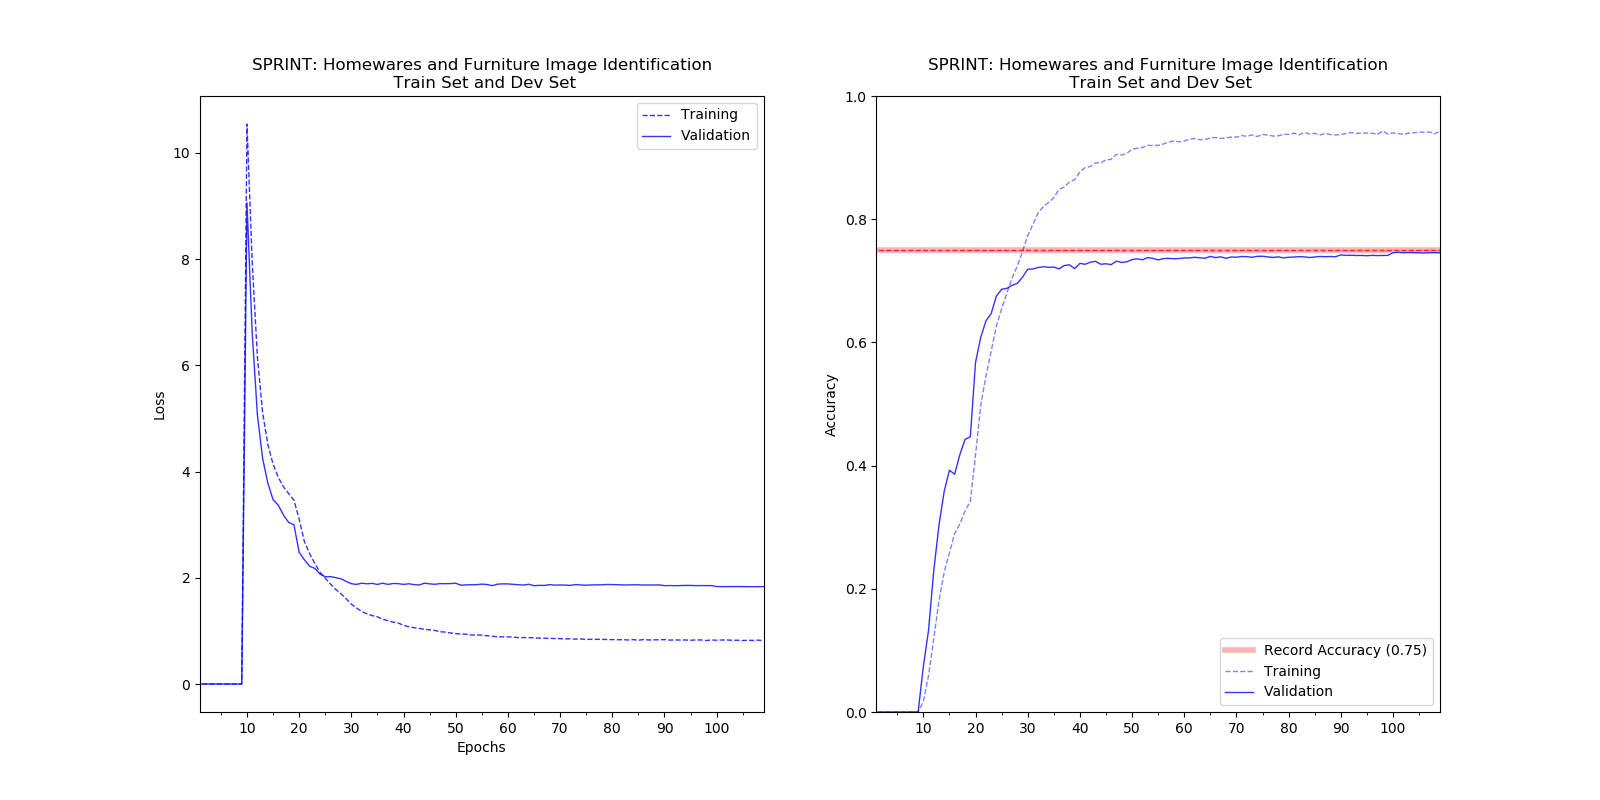
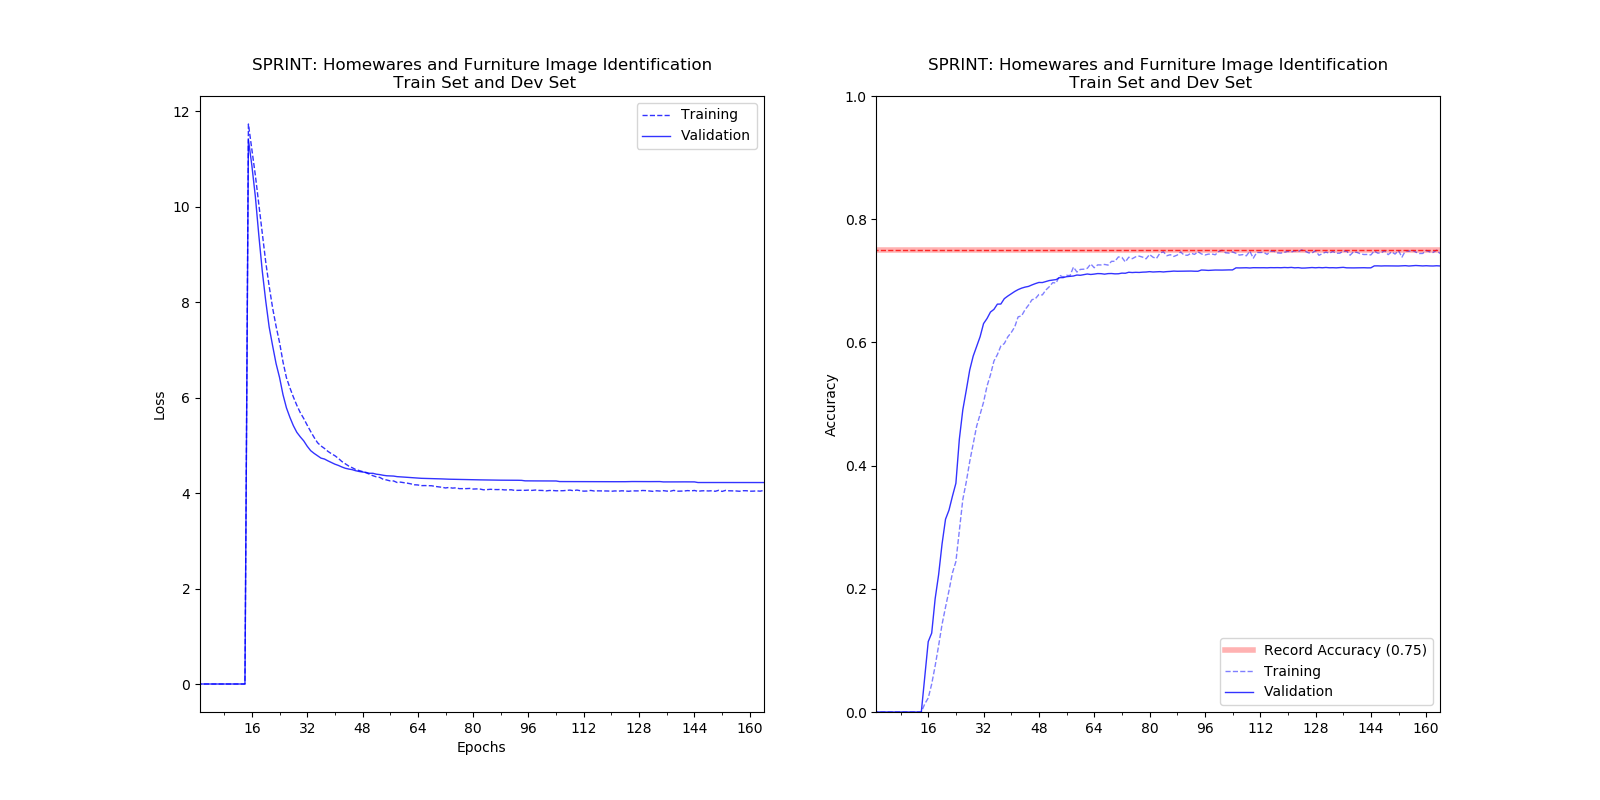
finally regularized

diff --git a/src/model_falcon_v2.5.py b/src/model_falcon_v2.5.py
@@ -344,18 +344,18 @@ def run():
                         # provides more data for plots to work with
 
     MINITRAINS = 15
-    DO = 0.55  # drop out
+    DO = 0.50  # drop out
 
     # for Adam inital LR of 0.0001 is a good starting point
     # for SGD initial LR of 0.001 is a good starting point
-    LR = 0.0001
+    LR = 0.00025
     DECAY = 0.5e-6
     L2_REG = 0.01
     OPTIMIZER = Adam(lr=LR, decay=DECAY)
     # OPTIMIZER = SGD(lr=LR, momentum=0.9, nesterov=True)
 
     NB_IV3_LAYERS_TO_FREEZE = 172
-    MODEL_ID = 'v2_5l'
+    MODEL_ID = 'v2_5m'
 
     plot_file = "model_{:}.png".format(MODEL_ID)
     weights_file = "weights/model_{:}_weights.h5".format(MODEL_ID)
@@ -427,7 +427,7 @@ def run():
 
         else:
             # mini-train 2
-            OPTIMIZER = Adam(lr=LR / 2**temp, decay=DECAY)
+            OPTIMIZER = Adam(lr=LR / 1.5**temp, decay=DECAY)
             # try to fine tune some of the InceptionV3 layers also
             setup_to_finetune(model, NB_IV3_LAYERS_TO_FREEZE - (5 * temp), OPTIMIZER, L2_REG)
 
